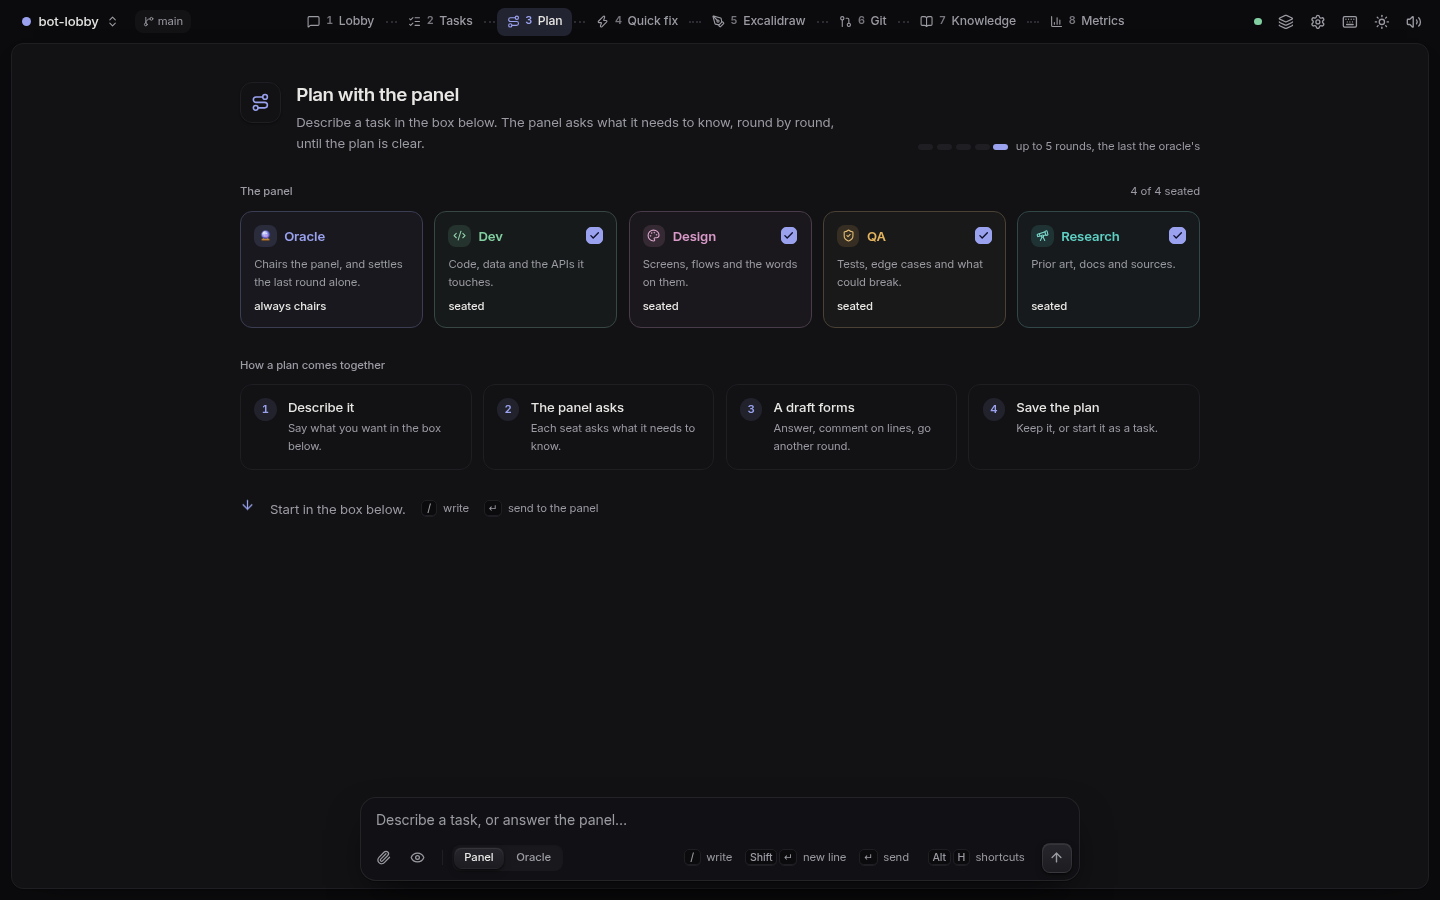
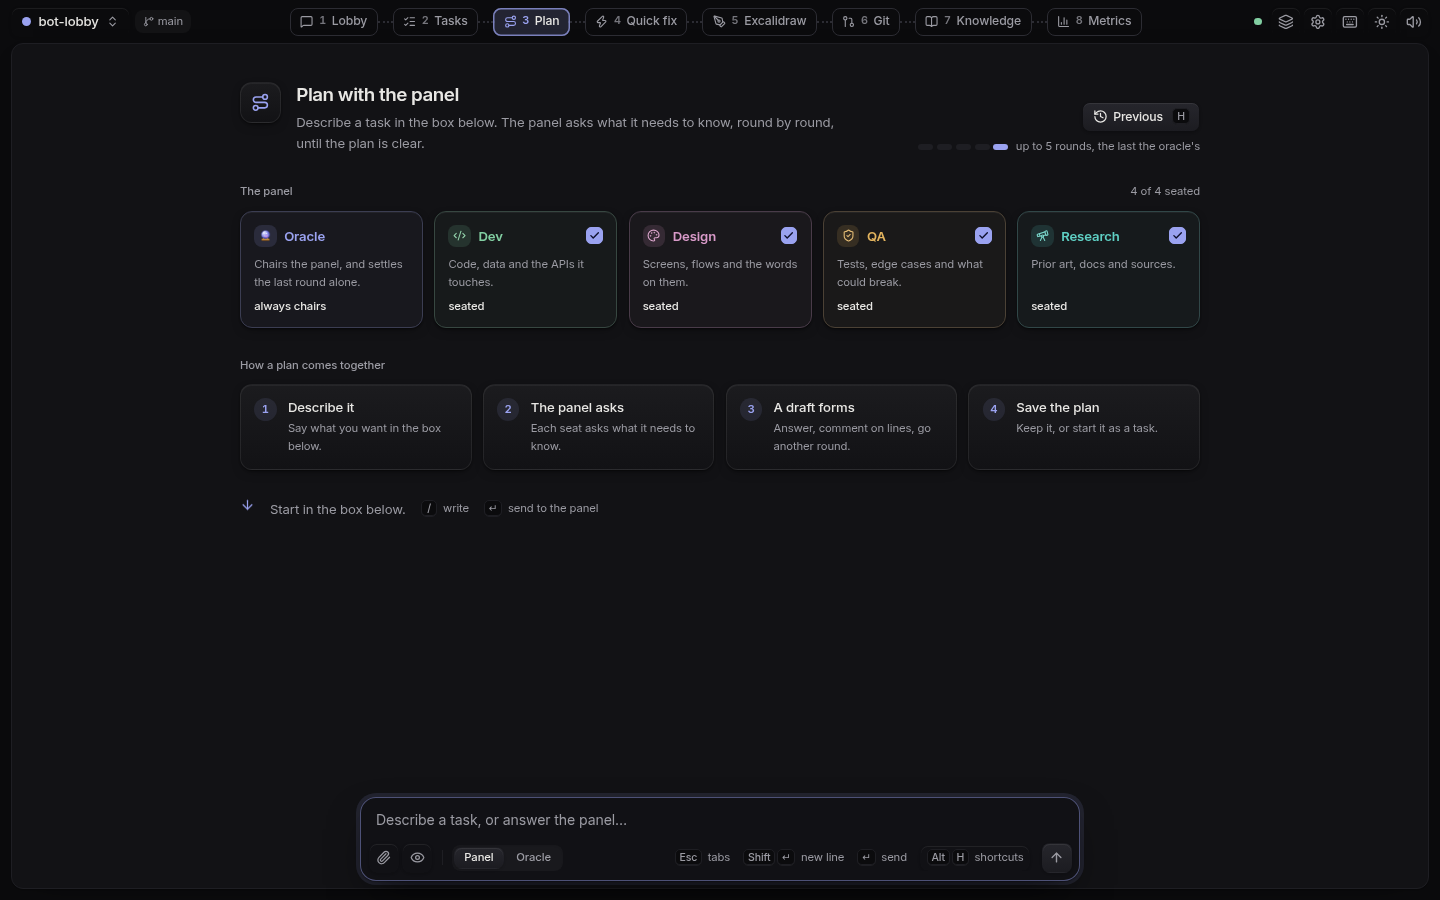
Refresh README screenshots and fix typos

diff --git a/README.md b/README.md
@@ -1,7 +1,7 @@
 # Bot-Lobby
 
-A [Pi](https://pi.dev) extension for multi-agent software development. Describe a change, agree a plan
-with the oracle, and follow the agents in a local browser lobby. Approvals, domain boundaries and QA
+A [Pi](https://pi.dev) extension for multi-agent software development. Describe a change, agree on a
+plan with the oracle, and follow the agents in a local browser lobby. Approvals, domain boundaries and QA
 are enforced before anything is called done.
 
 ![The Lobby: the conversation, the agents' activity and the Thinking orb](.github/screenshots/lobby.png)
@@ -18,8 +18,8 @@ The questionnaire and web tools are built in, so don't also install extensions w
 ## Use
 
 1. In Pi, run `/bot-lobby add a login page`. Bot-lobby turns on and the lobby opens in your browser.
-   A new pi session starts with bot-lobby off, as plain pi: `Ctrl+Shift+M` or `/bot-lobby on|off` switches it.
-2. Answer the oracle's questions and approve its plan, or agree one with the panel in **Plan** first.
+   A new Pi session starts with bot-lobby off, as plain Pi: `Ctrl+Shift+M` or `/bot-lobby on|off` switches it.
+2. Answer the oracle's questions and approve its plan, or agree on one with the panel in **Plan** first.
    A plan opens with a short list of steps; the detail of each follows for whoever wants it.
    Plans you leave without saving them as a task wait under **Plan → Previous**. You can read, carry on,
    archive or delete them there. A plan saved as a task leaves that list.
@@ -39,17 +39,17 @@ QA is sized to what was built, not to the request. Once the work is in, Jev (the
 reads the diff and sets the QA risk. A change with nothing that runs (docs, styles, comments) passes
 on the engine's checks with no QA agent, and a small one gets a light check. One that touches
 security, data, concurrency or orchestration gets a deep, adversarial review. The test budget is a
-ceiling, never a quota, and the Tasks tab shows the read and why. With Jev off, the engine's rules decide.
+ceiling, never a quota, and the Tasks tab shows Jev's read and why. With Jev off, the engine's rules decide.
 
-If pi crashes, is killed or loses its terminal, the lobby page keeps everything on screen and
-reconnects when pi is back. The next pi started in the project carries on what was running. The
+If Pi crashes, is killed or loses its terminal, the lobby page keeps everything on screen and
+reconnects when Pi is back. The next Pi started in the project carries on what was running. The
 planning session returns as it was, and a round that was cut off runs again. Queued quick fixes
 run, and every task's session starts again from its saved file, picking up where it stopped. A
 quit on purpose stops this work, and `pi -c` brings back the planning session.
 
 A task that is paused, or that no running session drives, shows **Resume** (`R`) in **Tasks**.
 It carries the task on without moving your window: a paused task is unpaused where it runs, and a
-stopped one carries on in a background session, its own session again when its file is found.
+stopped one carries on in a background session, which restarts its own session when its file is found.
 
 | Agent | Does |
 | --- | --- |
@@ -70,13 +70,15 @@ rebound with `lobby.keys`. In Pi, `Alt+G` toggles auto mode and `Ctrl+Shift+M` t
 
 | Plan | Tasks |
 | --- | --- |
-| ![The Plan start page: the panel as seats](.github/screenshots/plan.png) | ![A task with its action bar](.github/screenshots/tasks.png) |
-| **Thinking** | **Excalidraw** |
-| ![Each agent's latest thought, in steps](.github/screenshots/thinking.png) | ![A shared Excalidraw session](.github/screenshots/excalidraw.png) |
+| ![The Plan start page: the panel as seats](.github/screenshots/plan.png) | ![A stopped task with Resume in its action bar](.github/screenshots/tasks.png) |
+| **Previous plans** | **Thinking** |
+| ![A plan left unsaved, to read, carry on, archive or delete](.github/screenshots/previous.png) | ![Each agent's latest thought, in steps](.github/screenshots/thinking.png) |
+| **Settings** | **Excalidraw** |
+| ![Each agent's model, effort and time limit](.github/screenshots/settings.png) | ![A shared Excalidraw session](.github/screenshots/excalidraw.png) |
 
 ## Configuration
 
 Settings live in `~/.pi/bot-lobby/config.json` (`BOT_LOBBY_CONFIG_DIR` moves them), and
 `/bot-lobby config` shows what is in effect. Colour themes you import, under a name you choose,
-are kept in `themes.json` beside it, so every pi session and project shows them. Tasks and project knowledge stay in `.pi/bot-lobby/`
-inside your project.
+are kept in `themes.json` beside it, so every Pi session and project shows them. Tasks and
+project knowledge stay in `.pi/bot-lobby/` inside your project.
